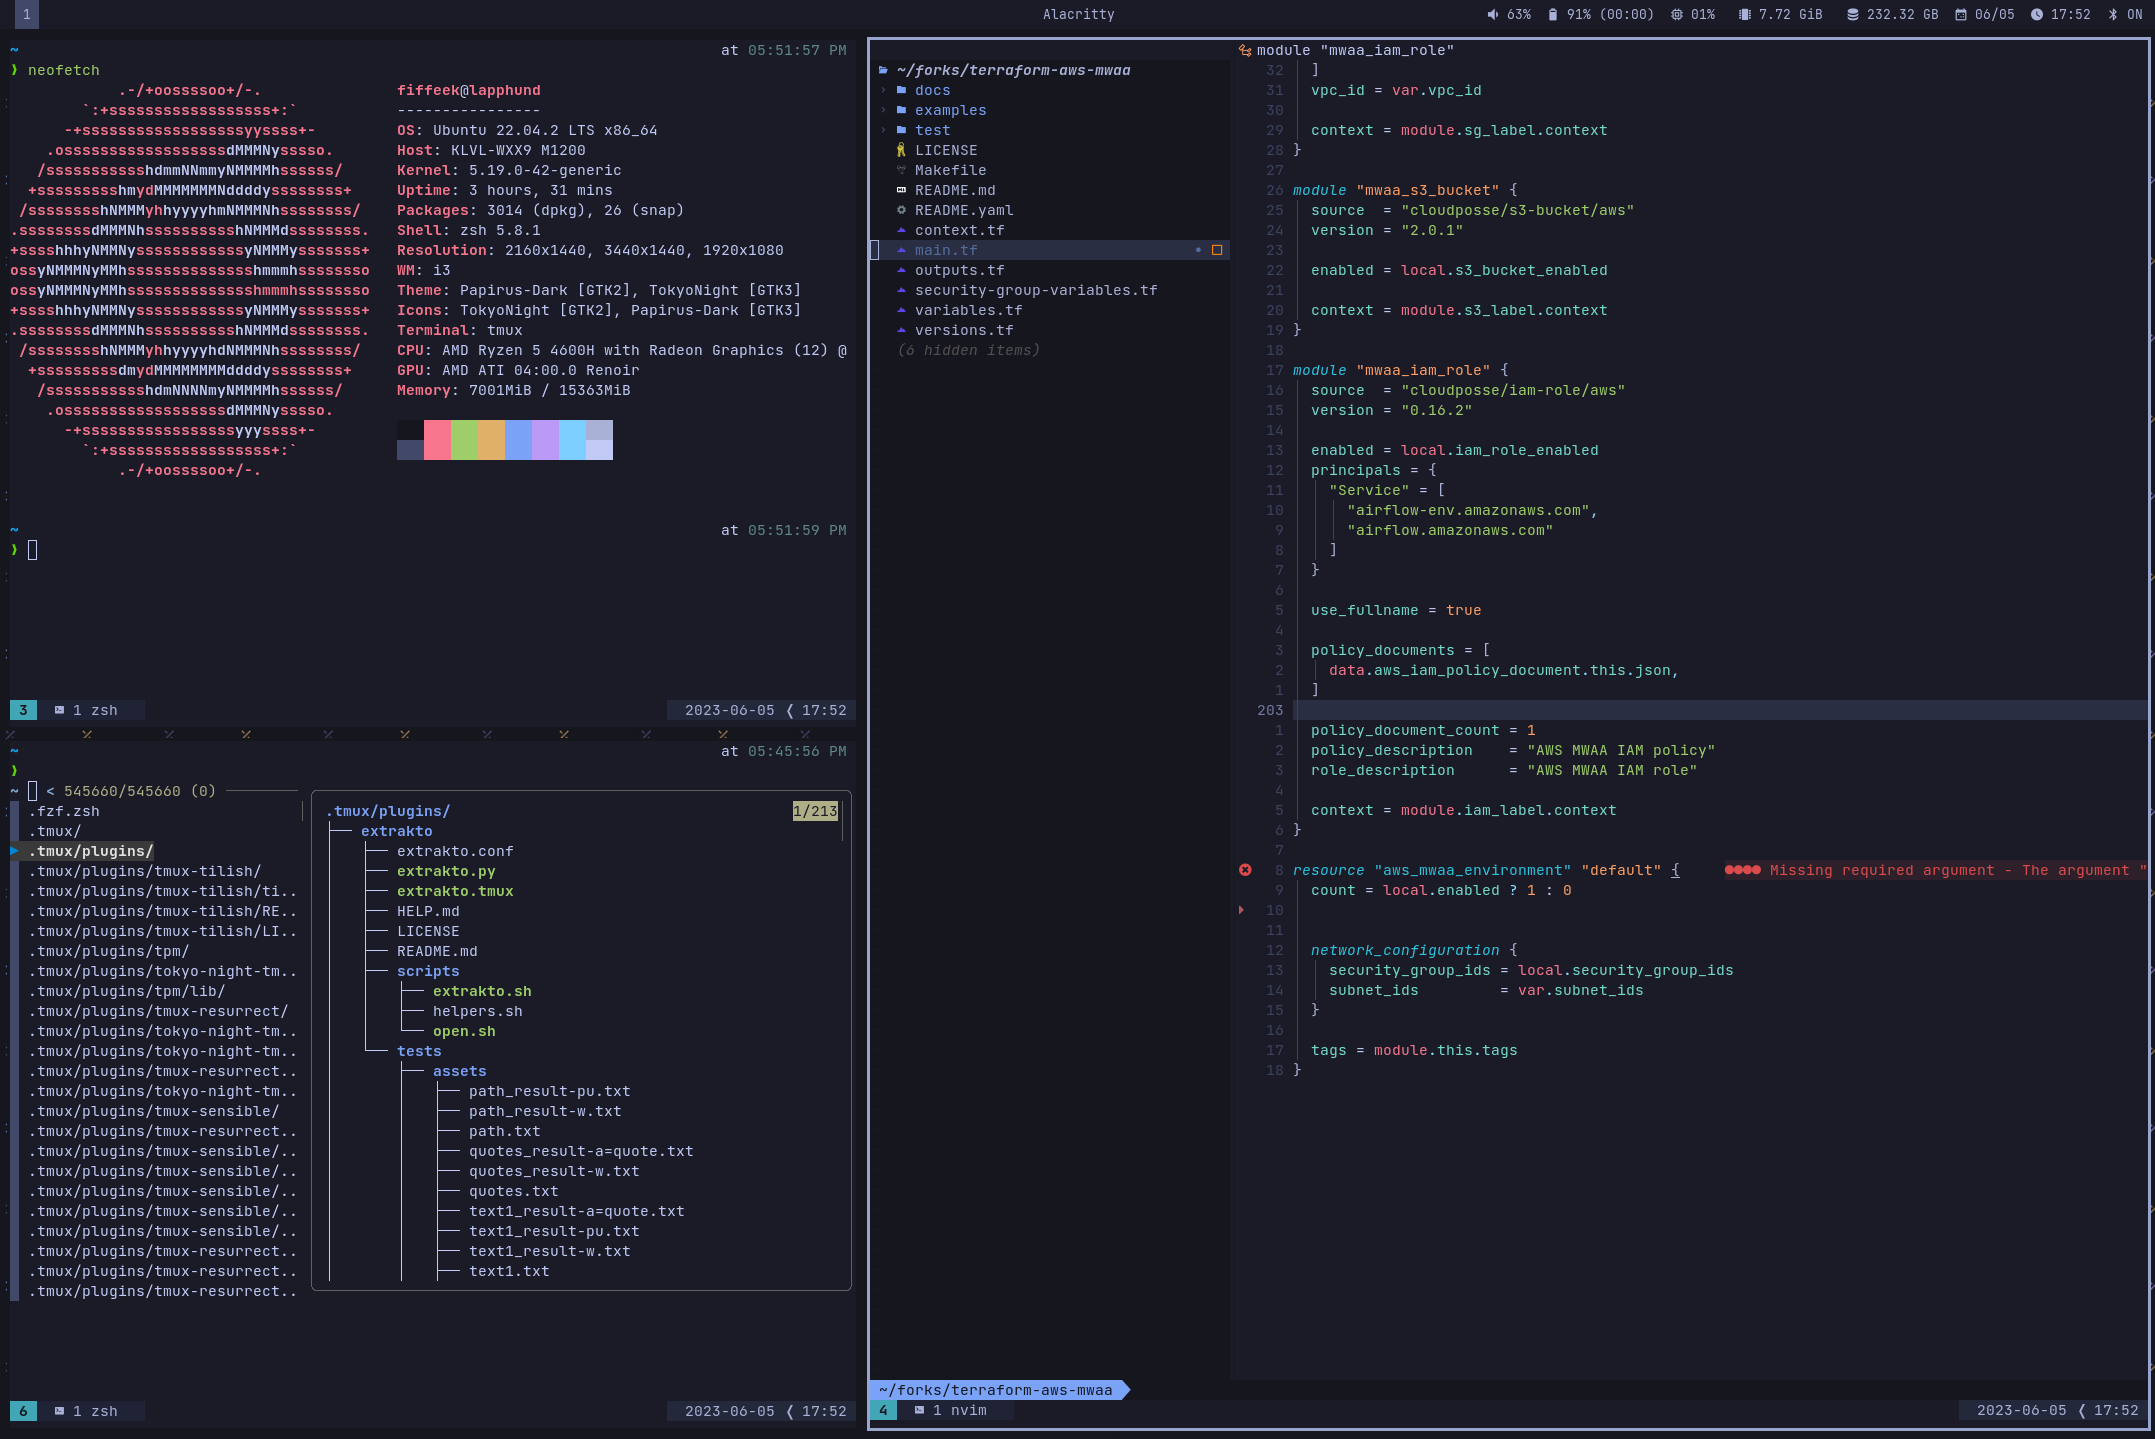
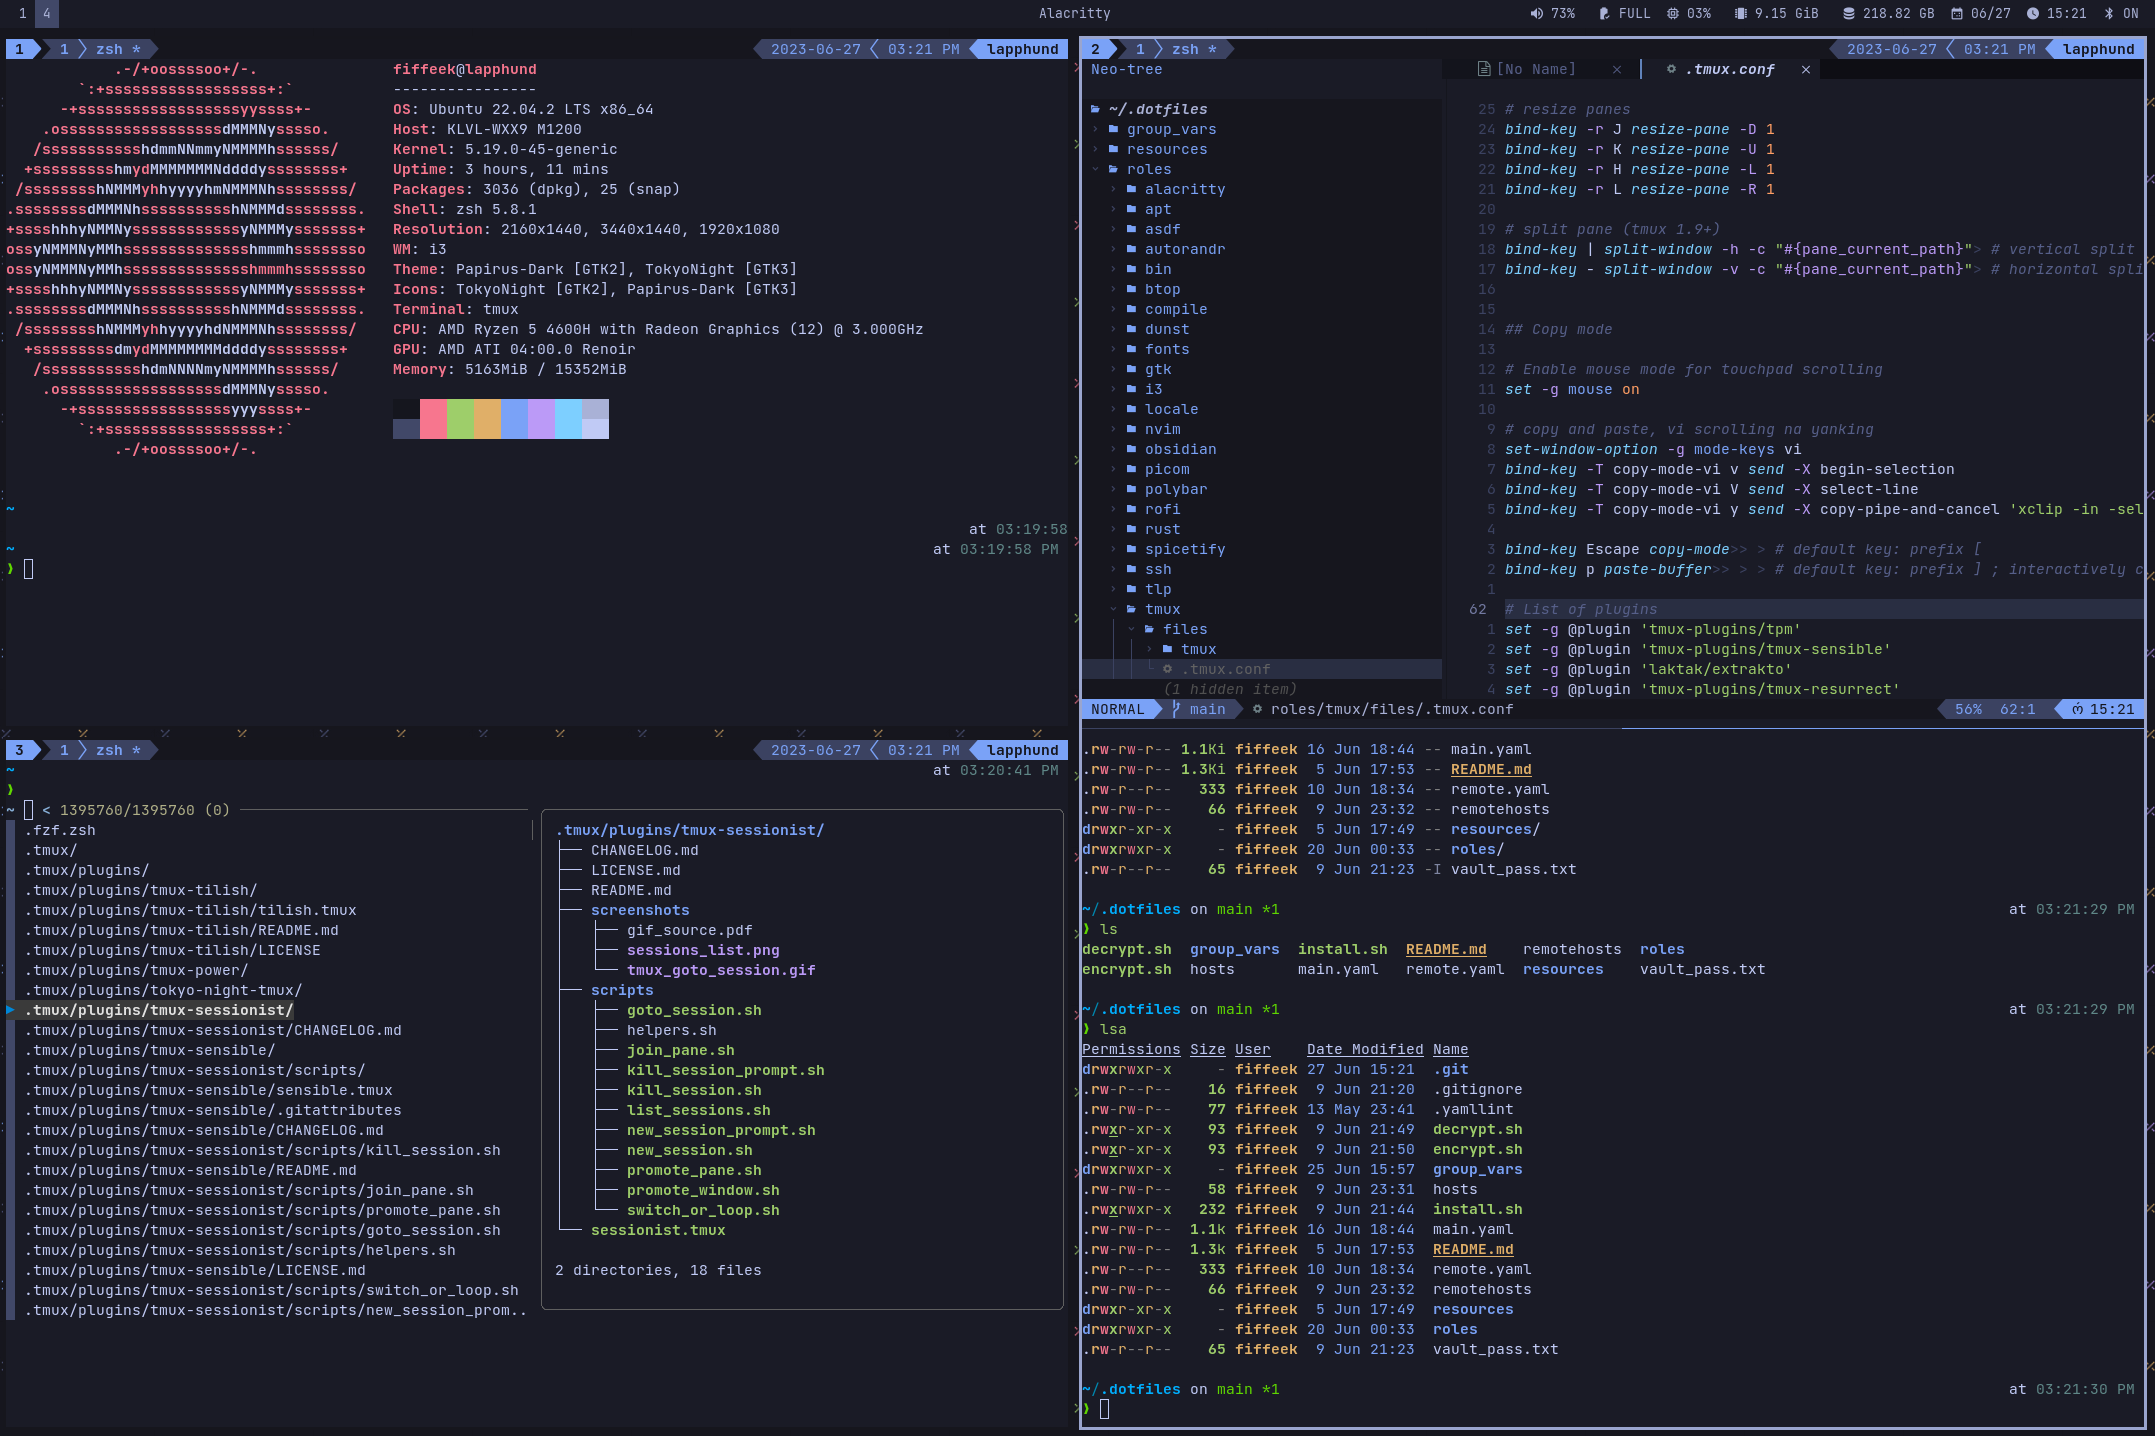
Replace preview image, format README

diff --git a/README.md b/README.md
@@ -1,18 +1,20 @@
 # .dotfiles
+
 Personal dotfiles managed by Ansible.
 
 I use Ubuntu. [Ansible](https://github.com/ansible/ansible) is leveraged to make this set up easier
 on multiple machines. In the future this might be changed to [nix](https://github.com/NixOS/nix) instead.
-This set up is very specific to my needs, I encourage the reader to use it 
-as a reference, rather than use directly. This config is not static, and 
+This set up is very specific to my needs, I encourage the reader to use it
+as a reference, rather than use directly. This config is not static, and
 does change over time.
 
-## Terminal driven development 
+## Terminal driven development
 
 Development is done with the help of the three main components:
+
 - [i3](https://i3wm.org/), with the `win` key as the modifier
-- [tmux](https://github.com/tmux/tmux/wiki), with `alt` as the pane/window navigator prefix, and `ctrl + space` as the full prefix 
-- [neovim](https://neovim.io/), with `ctrl` as the window navigation prefix, and `space` as the leader  
+- [tmux](https://github.com/tmux/tmux/wiki), with `alt` as the pane/window navigator prefix, and `ctrl + space` as the full prefix
+- [neovim](https://neovim.io/), with `ctrl` as the window navigation prefix, and `space` as the leader
 
 ## Keyboard
 
@@ -22,7 +24,6 @@ I recommend looking into [home row modifiers](https://precondition.github.io/hom
 
 ## Preview
 
-Here's a preview what the desktop environment looks like:
+Here's a preview what the environment looks like:
 
 ![preview](./resources/preview.png)
-
